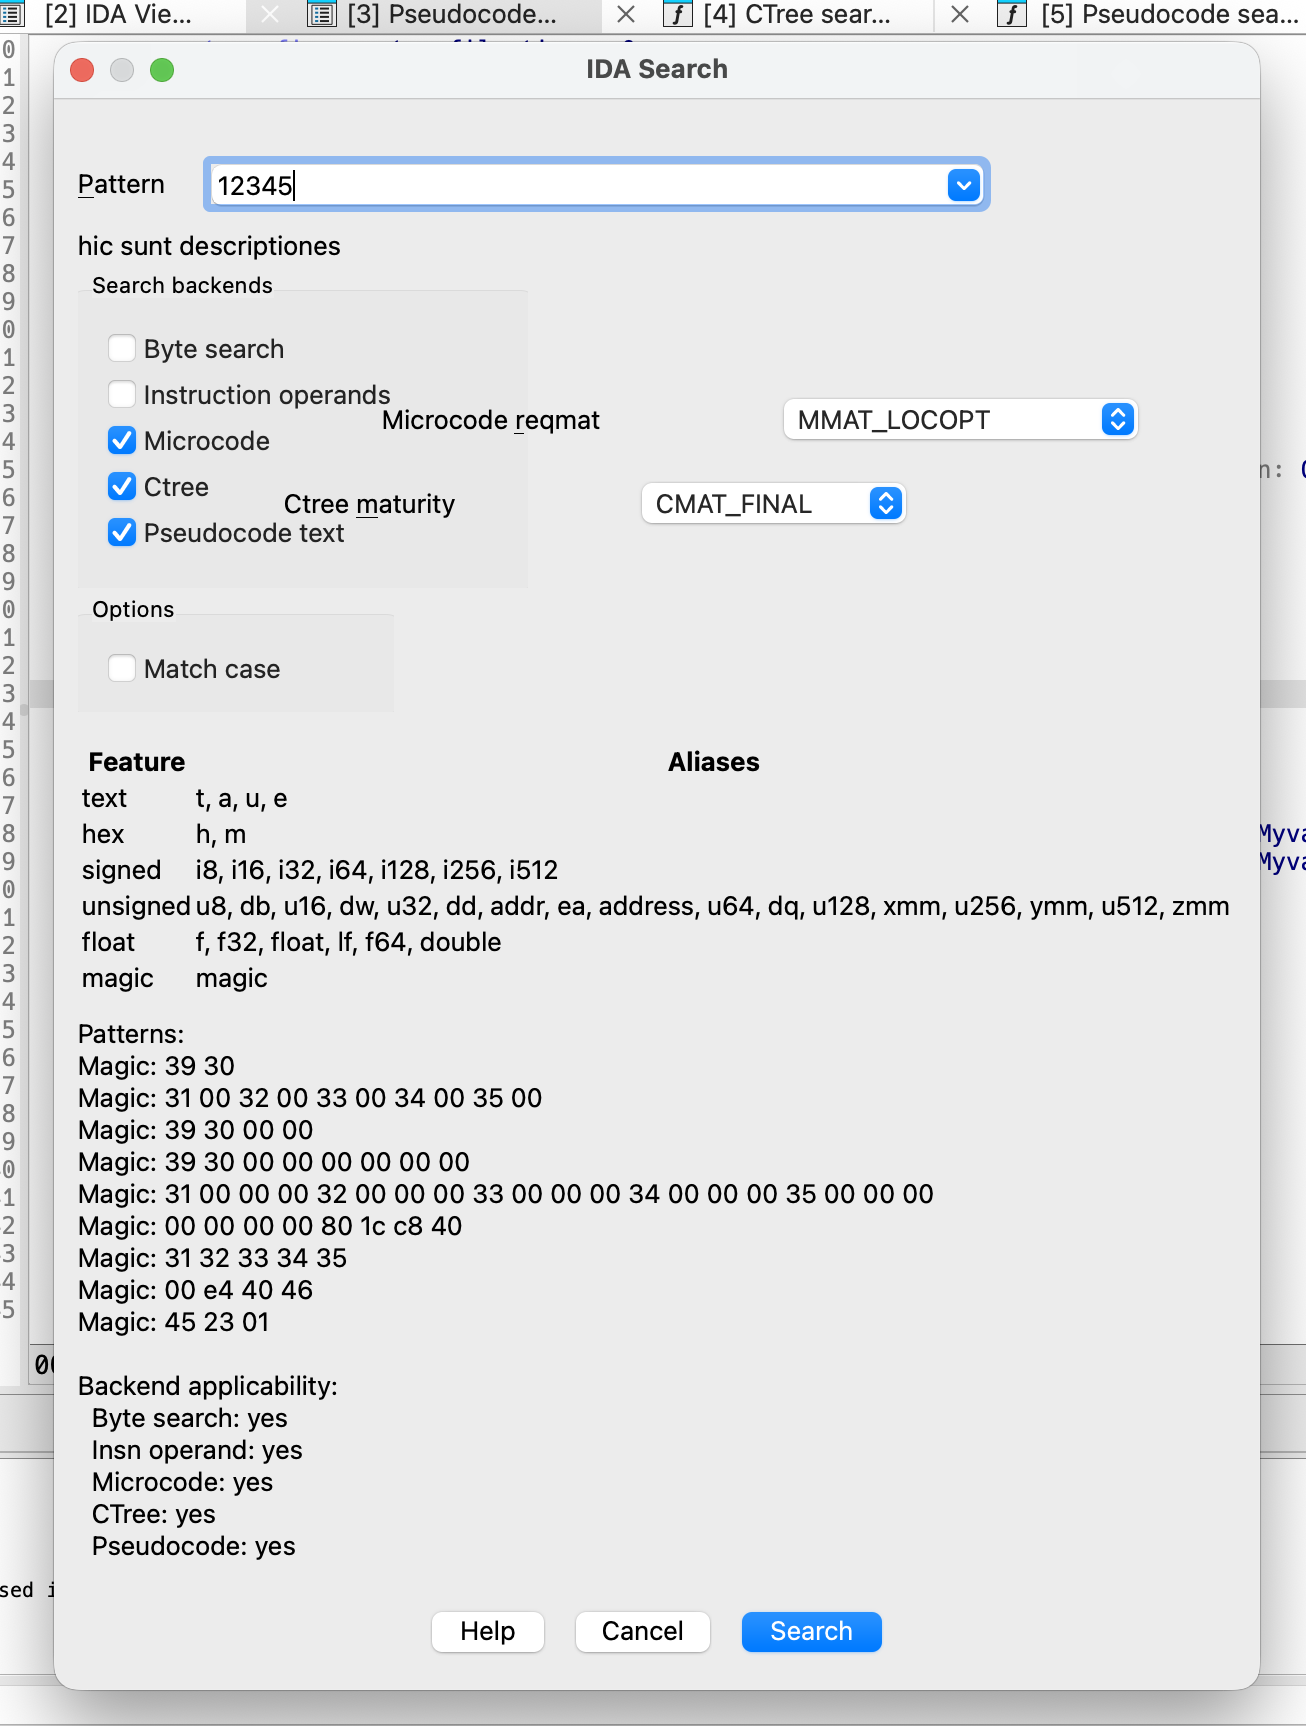
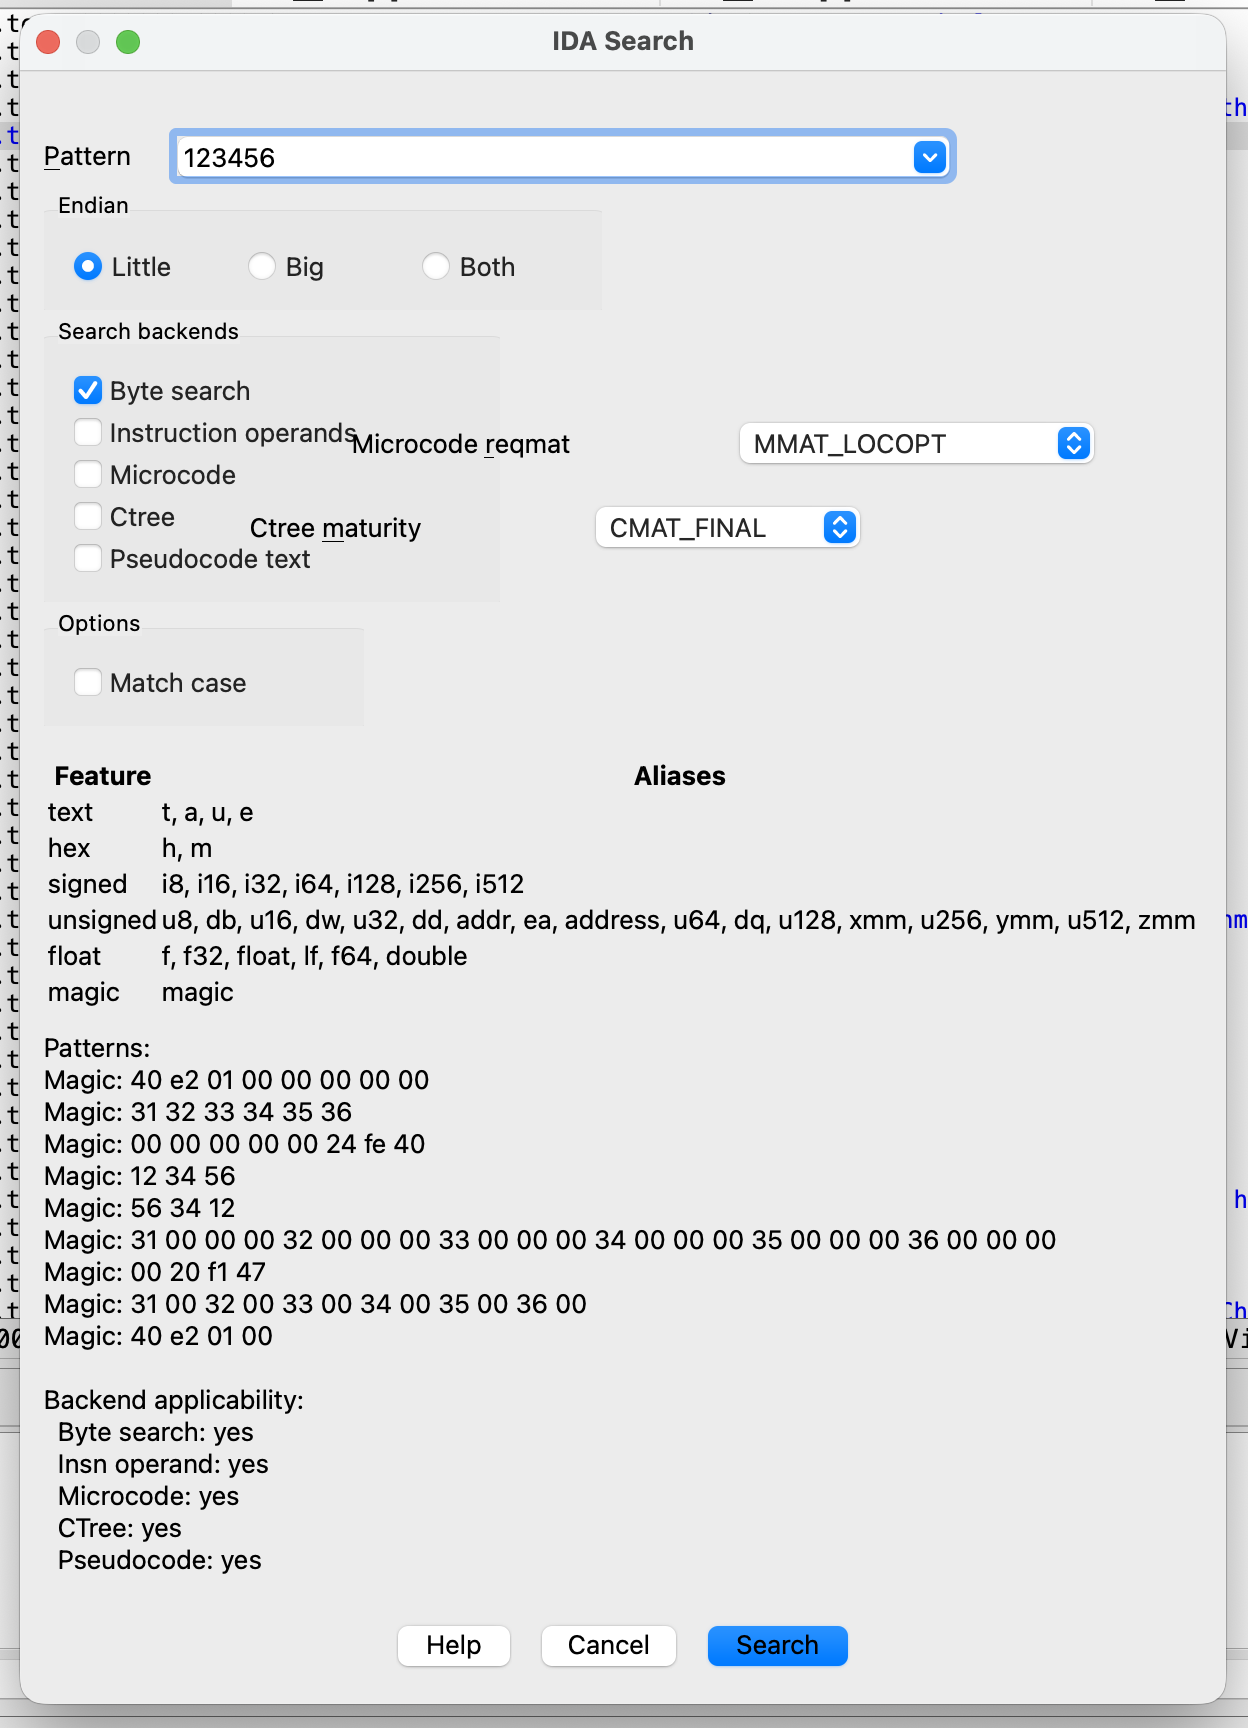
Prepare 0.1.1 release

diff --git a/ask_form.py b/ask_form.py
@@ -27,9 +27,9 @@ import enum
 import idaapi
 import parse
 from importlib import reload
+from ir import FloatTerm, NumberTerm, TextTerm
 
 reload(parse)
-from parse import PatternCategory
 
 
 def get_reqmat_choices() -> list[tuple[str, int]]:
@@ -130,7 +130,6 @@ ENDHELP
 IDA Search
 {{FormChangeCb}}
 <~P~attern:{{txtPattern}}>
-{{type_description}}
 <##Endian##~L~ittle:{{rLittle}}> <~B~ig:{{rBig}}> <B~o~th:{{rBoth}}>{{cGroup1}}>
 <##Search backends##B~y~te search:{{opt0Bytes}}>
 <~I~nstruction operands:{{opt1Insn}}>
@@ -149,7 +148,6 @@ IDA Search
                     overview,
                     tp=F.FT_HTML_LABEL,
                 ),
-                "type_description": F.StringLabel("hic sunt descriptiones"),
                 "FormChangeCb": F.FormChangeCb(self.OnFormChange),
                 "patterns": F.StringLabel("Patterns:\n"),
                 "cGroup1": F.RadGroupControl(["rLittle", "rBig", "rBoth"]),
@@ -195,10 +193,6 @@ IDA Search
                 self.refresh()
             elif fid in (self.rLittle.id, self.rBig.id, self.rBoth.id):
                 self.refresh()
-            # elif fid == self.pattern_type.id:
-            #    ti = self.GetControlValue(self.pattern_type)
-            #    self.SetControlValue(self.type_description, parse.Types[ti].description)
-            #    self.refresh()
         except Exception:
             pass
         return 1
@@ -214,6 +208,7 @@ IDA Search
 
         try:
             f = parse.PatternLocator.from_string(s, encodings=encodings, endian=endian)
+            terms = f.to_ir()
             patterns = f.to_pattern()
             lines = []
             if len(patterns) == 1:
@@ -242,9 +237,10 @@ IDA Search
             msg = "\n".join(lines)
             self.enable_ok(True)
 
-            endian_applicable = (
-                f.type.category in [PatternCategory.signed, PatternCategory.unsigned]
-                or f.type is parse.UnicodeString
+            endian_applicable = any(
+                isinstance(term, (NumberTerm, FloatTerm))
+                or (isinstance(term, TextTerm) and term.encoding == "unicode")
+                for term in terms
             )
             self.ShowField(self.cGroup1, endian_applicable)
 
